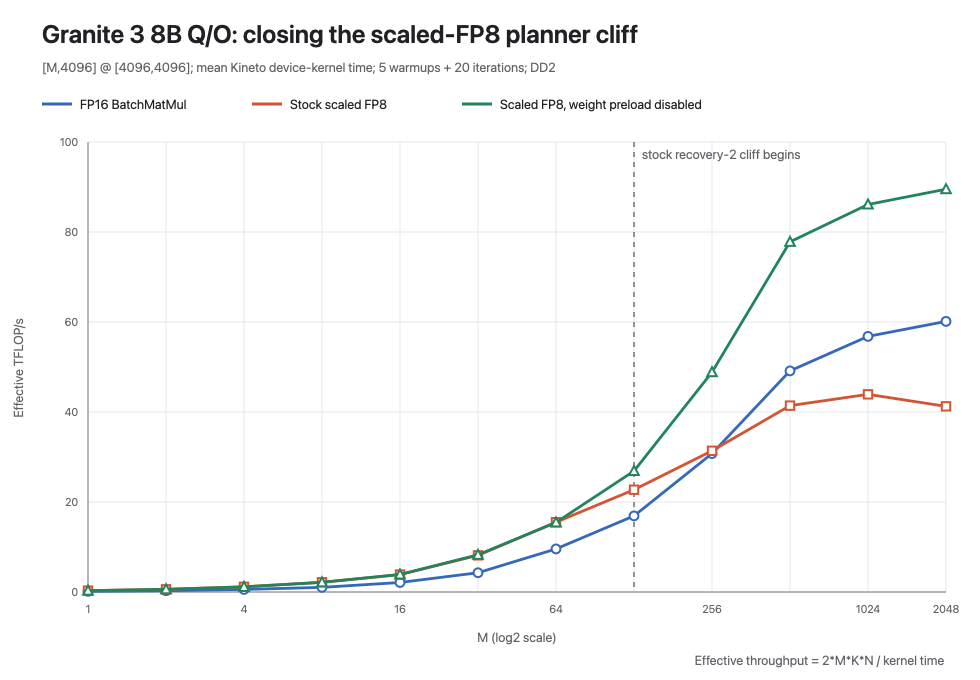
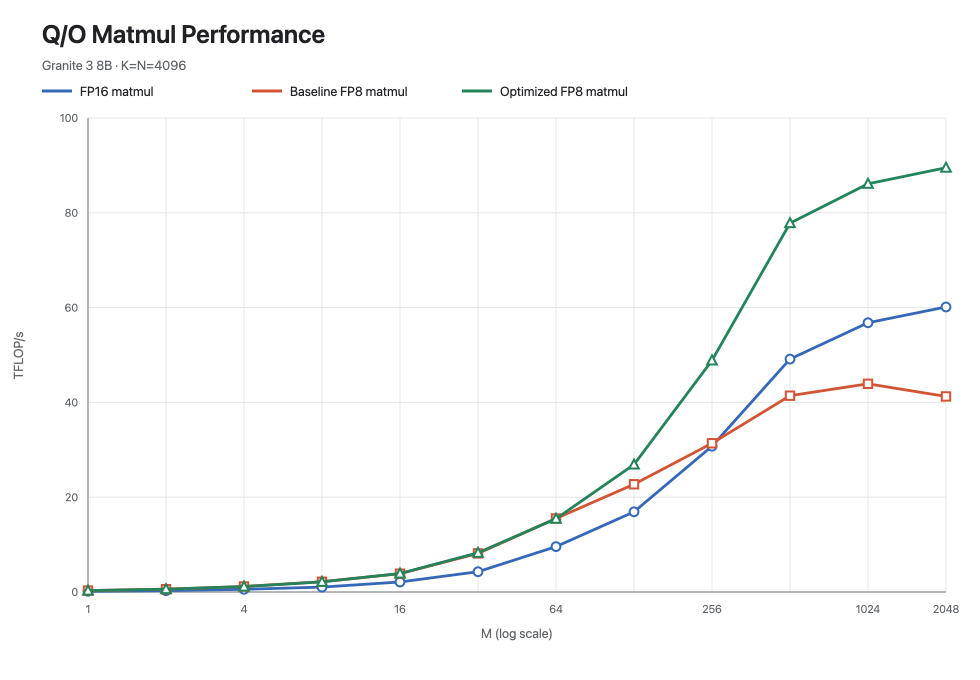
docs: simplify FP8 matmul chart

diff --git a/benchmarks/sendnn_fp8_matmul/summarize_qo_weipreload_poc.py b/benchmarks/sendnn_fp8_matmul/summarize_qo_weipreload_poc.py
@@ -20,19 +20,19 @@ VARIANTS = {
         "mode": "fp16",
         "dt_opt": "autopilot=1",
         "kernel": "fp16_bmm",
-        "label": "FP16 BatchMatMul",
+        "label": "FP16 matmul",
     },
     "fp8_baseline": {
         "mode": "fp8",
         "dt_opt": "autopilot=1",
         "kernel": "fp8_scaled_bmm-Qfp8",
-        "label": "Stock scaled FP8",
+        "label": "Baseline FP8 matmul",
     },
     "fp8_weipreload0": {
         "mode": "fp8",
         "dt_opt": "autopilot=1,weipreload=0",
         "kernel": "fp8_scaled_bmm-Qfp8",
-        "label": "Scaled FP8, weight preload disabled",
+        "label": "Optimized FP8 matmul",
     },
 }
 
@@ -286,7 +286,7 @@ def rounded_axis_max(maximum: float) -> tuple[float, float]:
 
 def write_chart(rows: list[dict], path: Path) -> None:
     width, height = 980, 680
-    left, right, top, bottom = 88, 946, 142, 592
+    left, right, top, bottom = 88, 946, 118, 592
     plot_width = right - left
     plot_height = bottom - top
     y_max, y_step = rounded_axis_max(
@@ -308,9 +308,9 @@ def write_chart(rows: list[dict], path: Path) -> None:
         f'<svg xmlns="http://www.w3.org/2000/svg" width="{width}" '
         f'height="{height}" viewBox="0 0 {width} {height}" role="img" '
         'aria-labelledby="title description">',
-        '<title id="title">Q/O FP8 weight-preload PoC throughput</title>',
+        '<title id="title">Q/O matmul performance</title>',
         '<desc id="description">Effective TFLOP per second over M for FP16, '
-        "stock scaled FP8, and scaled FP8 with weight preload disabled.</desc>",
+        "baseline FP8, and optimized FP8 matmul.</desc>",
         "<style>",
         "text{font-family:-apple-system,BlinkMacSystemFont,'Segoe UI',sans-serif;"
         "fill:#202124}.small{font-size:13px;fill:#5f6368}"
@@ -321,9 +321,9 @@ def write_chart(rows: list[dict], path: Path) -> None:
         "</style>",
         f'<rect width="{width}" height="{height}" fill="#fff"/>',
         '<text x="42" y="43" font-size="25" font-weight="600">'
-        "Granite 3 8B Q/O: closing the scaled-FP8 planner cliff</text>",
-        '<text x="42" y="72" class="small">[M,4096] @ [4096,4096]; '
-        "mean Kineto device-kernel time; 5 warmups + 20 iterations; DD2</text>",
+        "Q/O Matmul Performance</text>",
+        '<text x="42" y="70" class="small">'
+        "Granite 3 8B · K=N=4096</text>",
     ]
 
     legend_x = 42
@@ -332,9 +332,9 @@ def write_chart(rows: list[dict], path: Path) -> None:
         label = VARIANTS[variant_name]["label"]
         parts.extend(
             [
-                f'<line x1="{legend_x}" y1="104" x2="{legend_x + 30}" '
-                f'y2="104" stroke="{color}" stroke-width="3"/>',
-                f'<text x="{legend_x + 38}" y="109" font-size="13">'
+                f'<line x1="{legend_x}" y1="91" x2="{legend_x + 30}" '
+                f'y2="91" stroke="{color}" stroke-width="3"/>',
+                f'<text x="{legend_x + 38}" y="96" font-size="13">'
                 f"{escape(label)}</text>",
             ]
         )
@@ -369,22 +369,11 @@ def write_chart(rows: list[dict], path: Path) -> None:
             f'x2="{right}" y2="{bottom}"/>',
             f'<line class="axis" x1="{left}" y1="{top}" '
             f'x2="{left}" y2="{bottom}"/>',
-            f'<text x="{(left + right) / 2:.2f}" y="642" class="small" '
-            'text-anchor="middle">M (log2 scale)</text>',
+            f'<text x="{(left + right) / 2:.2f}" y="638" class="small" '
+            'text-anchor="middle">M (log scale)</text>',
             f'<text x="23" y="{(top + bottom) / 2:.2f}" class="small" '
             f'text-anchor="middle" transform="rotate(-90 23 '
-            f'{(top + bottom) / 2:.2f})">Effective TFLOP/s</text>',
-        ]
-    )
-
-    breakpoint_x = xpos(128)
-    parts.extend(
-        [
-            f'<line x1="{breakpoint_x:.2f}" y1="{top}" '
-            f'x2="{breakpoint_x:.2f}" y2="{bottom}" stroke="#6f7378" '
-            'stroke-width="1.5" stroke-dasharray="5 5"/>',
-            f'<text x="{breakpoint_x + 8:.2f}" y="{top + 17}" '
-            'class="small">stock recovery-2 cliff begins</text>',
+            f'{(top + bottom) / 2:.2f})">TFLOP/s</text>',
         ]
     )
 
@@ -422,13 +411,7 @@ def write_chart(rows: list[dict], path: Path) -> None:
                     f'<polygon points="{points}" fill="#fff" '
                     f'stroke="{color}" stroke-width="2"/>'
                 )
-    parts.extend(
-        [
-            '<text x="946" y="665" class="small" text-anchor="end">'
-            "Effective throughput = 2*M*K*N / kernel time</text>",
-            "</svg>",
-        ]
-    )
+    parts.append("</svg>")
     path.write_text("\n".join(parts) + "\n")
 
 
